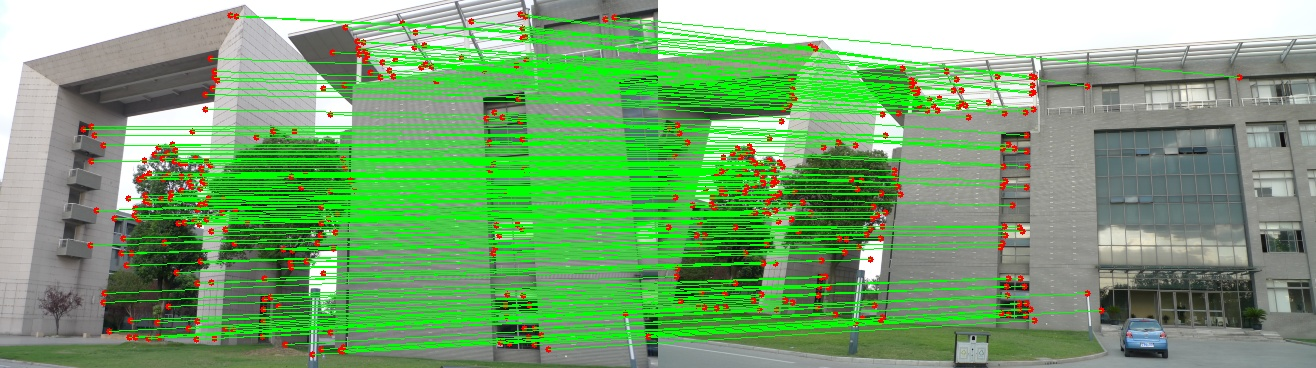
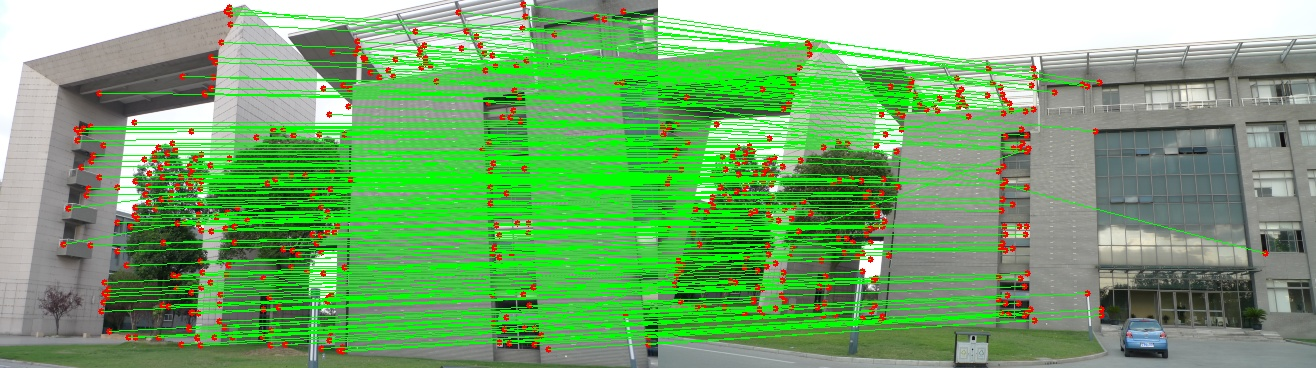
added sift matching feature points code but did not add comments yet

diff --git a/ch3/feature_detection_and_matching_OpenCV.py b/ch3/feature_detection_and_matching_OpenCV.py
@@ -33,10 +33,22 @@ if __name__ == "__main__":
     for m, n in matches:
         if m.distance < 0.7*n.distance:
             good.append(m)
-
-    for i in good:
-        print i.queryIdx
-
-    # if len(good) > 10:
-        # src_pts = np.float32([kp1[m.queryIdx].pt for m in good])
     
+    if len(good) > 10:
+        src_pts = np.float32([kp1[m.queryIdx].pt for m in good]).reshape(-1, 1, 2)
+        dst_pts = np.float32([kp2[m.trainIdx].pt for m in good]).reshape(-1, 1, 2)
+
+    img1_width = int(img1.shape[1])
+    print img1_width
+    appended_image = np.concatenate((img1, img2), axis=1)
+
+    for i in range(0, len(src_pts)):
+        img1_pos = (int(src_pts[i][0][0]), int(src_pts[i][0][1]))
+        img2_pos = (int(dst_pts[i][0][0])+img1_width, int(dst_pts[i][0][1]))
+        cv2.circle(appended_image, img1_pos, 3, (0, 0, 255), -1)
+        cv2.circle(appended_image, img2_pos, 3, (0, 0, 255), -1)
+        cv2.line(appended_image, img1_pos, img2_pos, (0, 255, 0), 1)
+
+    cv2.imshow("", appended_image)
+    cv2.imwrite("appended_matched_image.jpg", appended_image)
+    cv2.waitKey()
